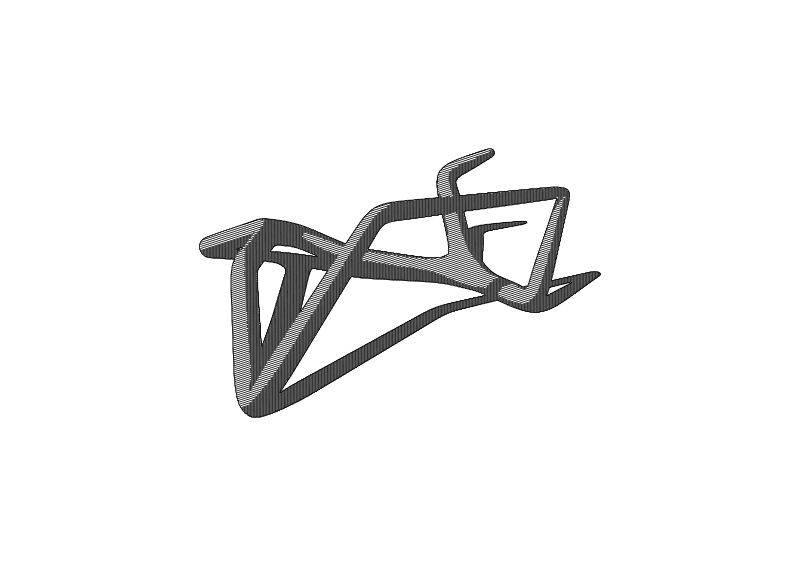
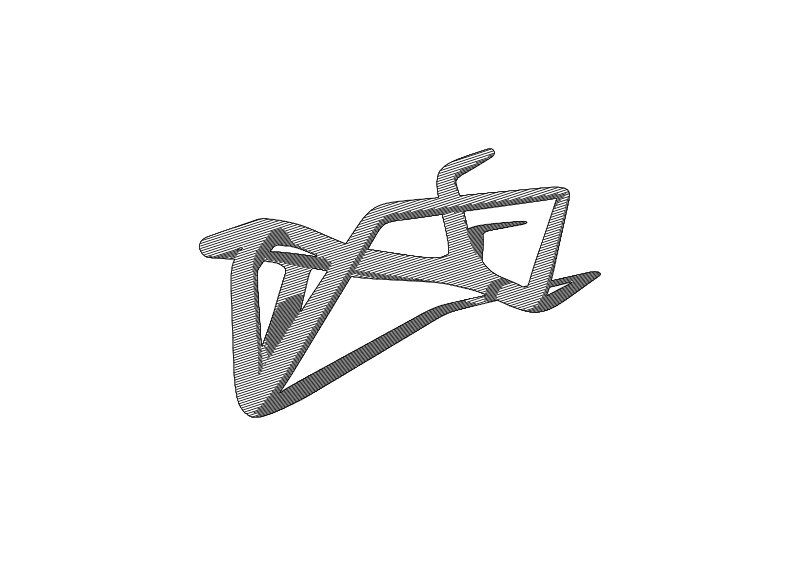
The more stuff

Changed region(s): [[0.25, 0.2703, 0.75, 0.7509]]

diff --git a/src/core/generators/image-hatching.ts b/src/core/generators/image-hatching.ts
@@ -240,21 +240,6 @@ export class ImageHatching {
         const threshold = options.threshold ?? 0.95;
         const densityMultiplier = Math.max(0.1, options.density || 1.5);
 
-        // Continuous density subdivision: bit-reversed fractional mapping [0, 1]
-        // This generates a Halton-style Van der Corput sequence.
-        // E.g., line 1 -> 0.5, line 2 -> 0.25, line 3 -> 0.75, line 4 -> 0.125
-        const getLineScore = (index: number): number => {
-            let n = index + 1; // 1-indexed to avoid 0 mapping to 0 for the first line
-            let rev = 0;
-            let p = 0.5;
-            while (n > 0) {
-                if (n % 2 === 1) rev += p;
-                p *= 0.5;
-                n = Math.floor(n / 2);
-            }
-            return rev;
-        };
-
         // Number of discrete grey values steps mapping limits
         const steps = Math.floor(Math.max(1, options.shadingSteps || 5));
 
@@ -450,7 +435,7 @@ export class ImageHatching {
                         if (inBounds && dens < threshold && (hasTransparency ? alpha >= 0.5 : true)) {
                             const darkness = 1.0 - dens;
                             let normalizedDarkness = Math.max(0, darkness - (1.0 - threshold)) / threshold;
-                            normalizedDarkness = Math.min(1.0, normalizedDarkness);
+                            normalizedDarkness = Math.min(1.0, Math.pow(normalizedDarkness, densityCurve));
                             const bucketIndex = Math.floor(normalizedDarkness * (steps - 0.001));
 
                             let isSwitched = false;
@@ -466,11 +451,8 @@ export class ImageHatching {
                             else shouldDrawPass = isAltPass ? isSwitched : !isSwitched;
 
                             if (shouldDrawPass) {
-                                const tBucket = steps > 1 ? bucketIndex / (steps - 1) : 1;
-                                const tCurved = Math.pow(tBucket, densityCurve);
-
-                                // Compare directly against continuous density score to avoid artificial banding
-                                if (getLineScore(lineIndex) < tCurved) {
+                                const spacing = 1 << Math.max(0, (steps - 1 - bucketIndex));
+                                if (lineIndex % spacing === 0) {
                                     draw = true;
                                 }
                             }
@@ -543,7 +525,7 @@ export class ImageHatching {
                         if (inBounds && dens < threshold && (hasTransparency ? alpha >= 0.5 : true)) {
                             const darkness = 1.0 - dens;
                             let nd = Math.max(0, darkness - (1.0 - threshold)) / threshold;
-                            nd = Math.min(1.0, nd);
+                            nd = Math.min(1.0, Math.pow(nd, densityCurve));
                             const bi = Math.floor(nd * (steps - 0.001));
                             let sw = false;
                             const ch = options.crossHatchChance || 0;
@@ -552,10 +534,8 @@ export class ImageHatching {
                             const alt = Math.abs(angleOffset) > 0.01;
                             if (options.crossHatch) sdp = true; else sdp = alt ? sw : !sw;
                             if (sdp) {
-                                const tB = steps > 1 ? bi / (steps - 1) : 1;
-                                const tC = Math.pow(tB, densityCurve);
-
-                                if (getLineScore(lineIndex) < tC) {
+                                const spacing = 1 << Math.max(0, (steps - 1 - bi));
+                                if (lineIndex % spacing === 0) {
                                     draw = true;
                                 }
                             }
@@ -644,11 +624,10 @@ export class ImageHatching {
                 const getClearanceForDensity = (dens: number): number => {
                     const darkness = 1.0 - dens;
                     let nd = Math.max(0, darkness - (1.0 - threshold)) / threshold;
-                    nd = Math.min(1.0, nd);
+                    nd = Math.min(1.0, Math.pow(nd, densityCurve));
                     const bi = Math.floor(nd * (steps - 0.001));
-                    const tB = steps > 1 ? bi / (steps - 1) : 1;
-                    const densityVal = Math.pow(tB, densityCurve);
-                    return Math.max(1, Math.round(1.0 / Math.max(0.01, densityVal)));
+                    const spacing = 1 << Math.max(0, (steps - 1 - bi));
+                    return Math.min(10, spacing * 2);
                 };
 
                 const startClearance = getClearanceForDensity(startDens);
